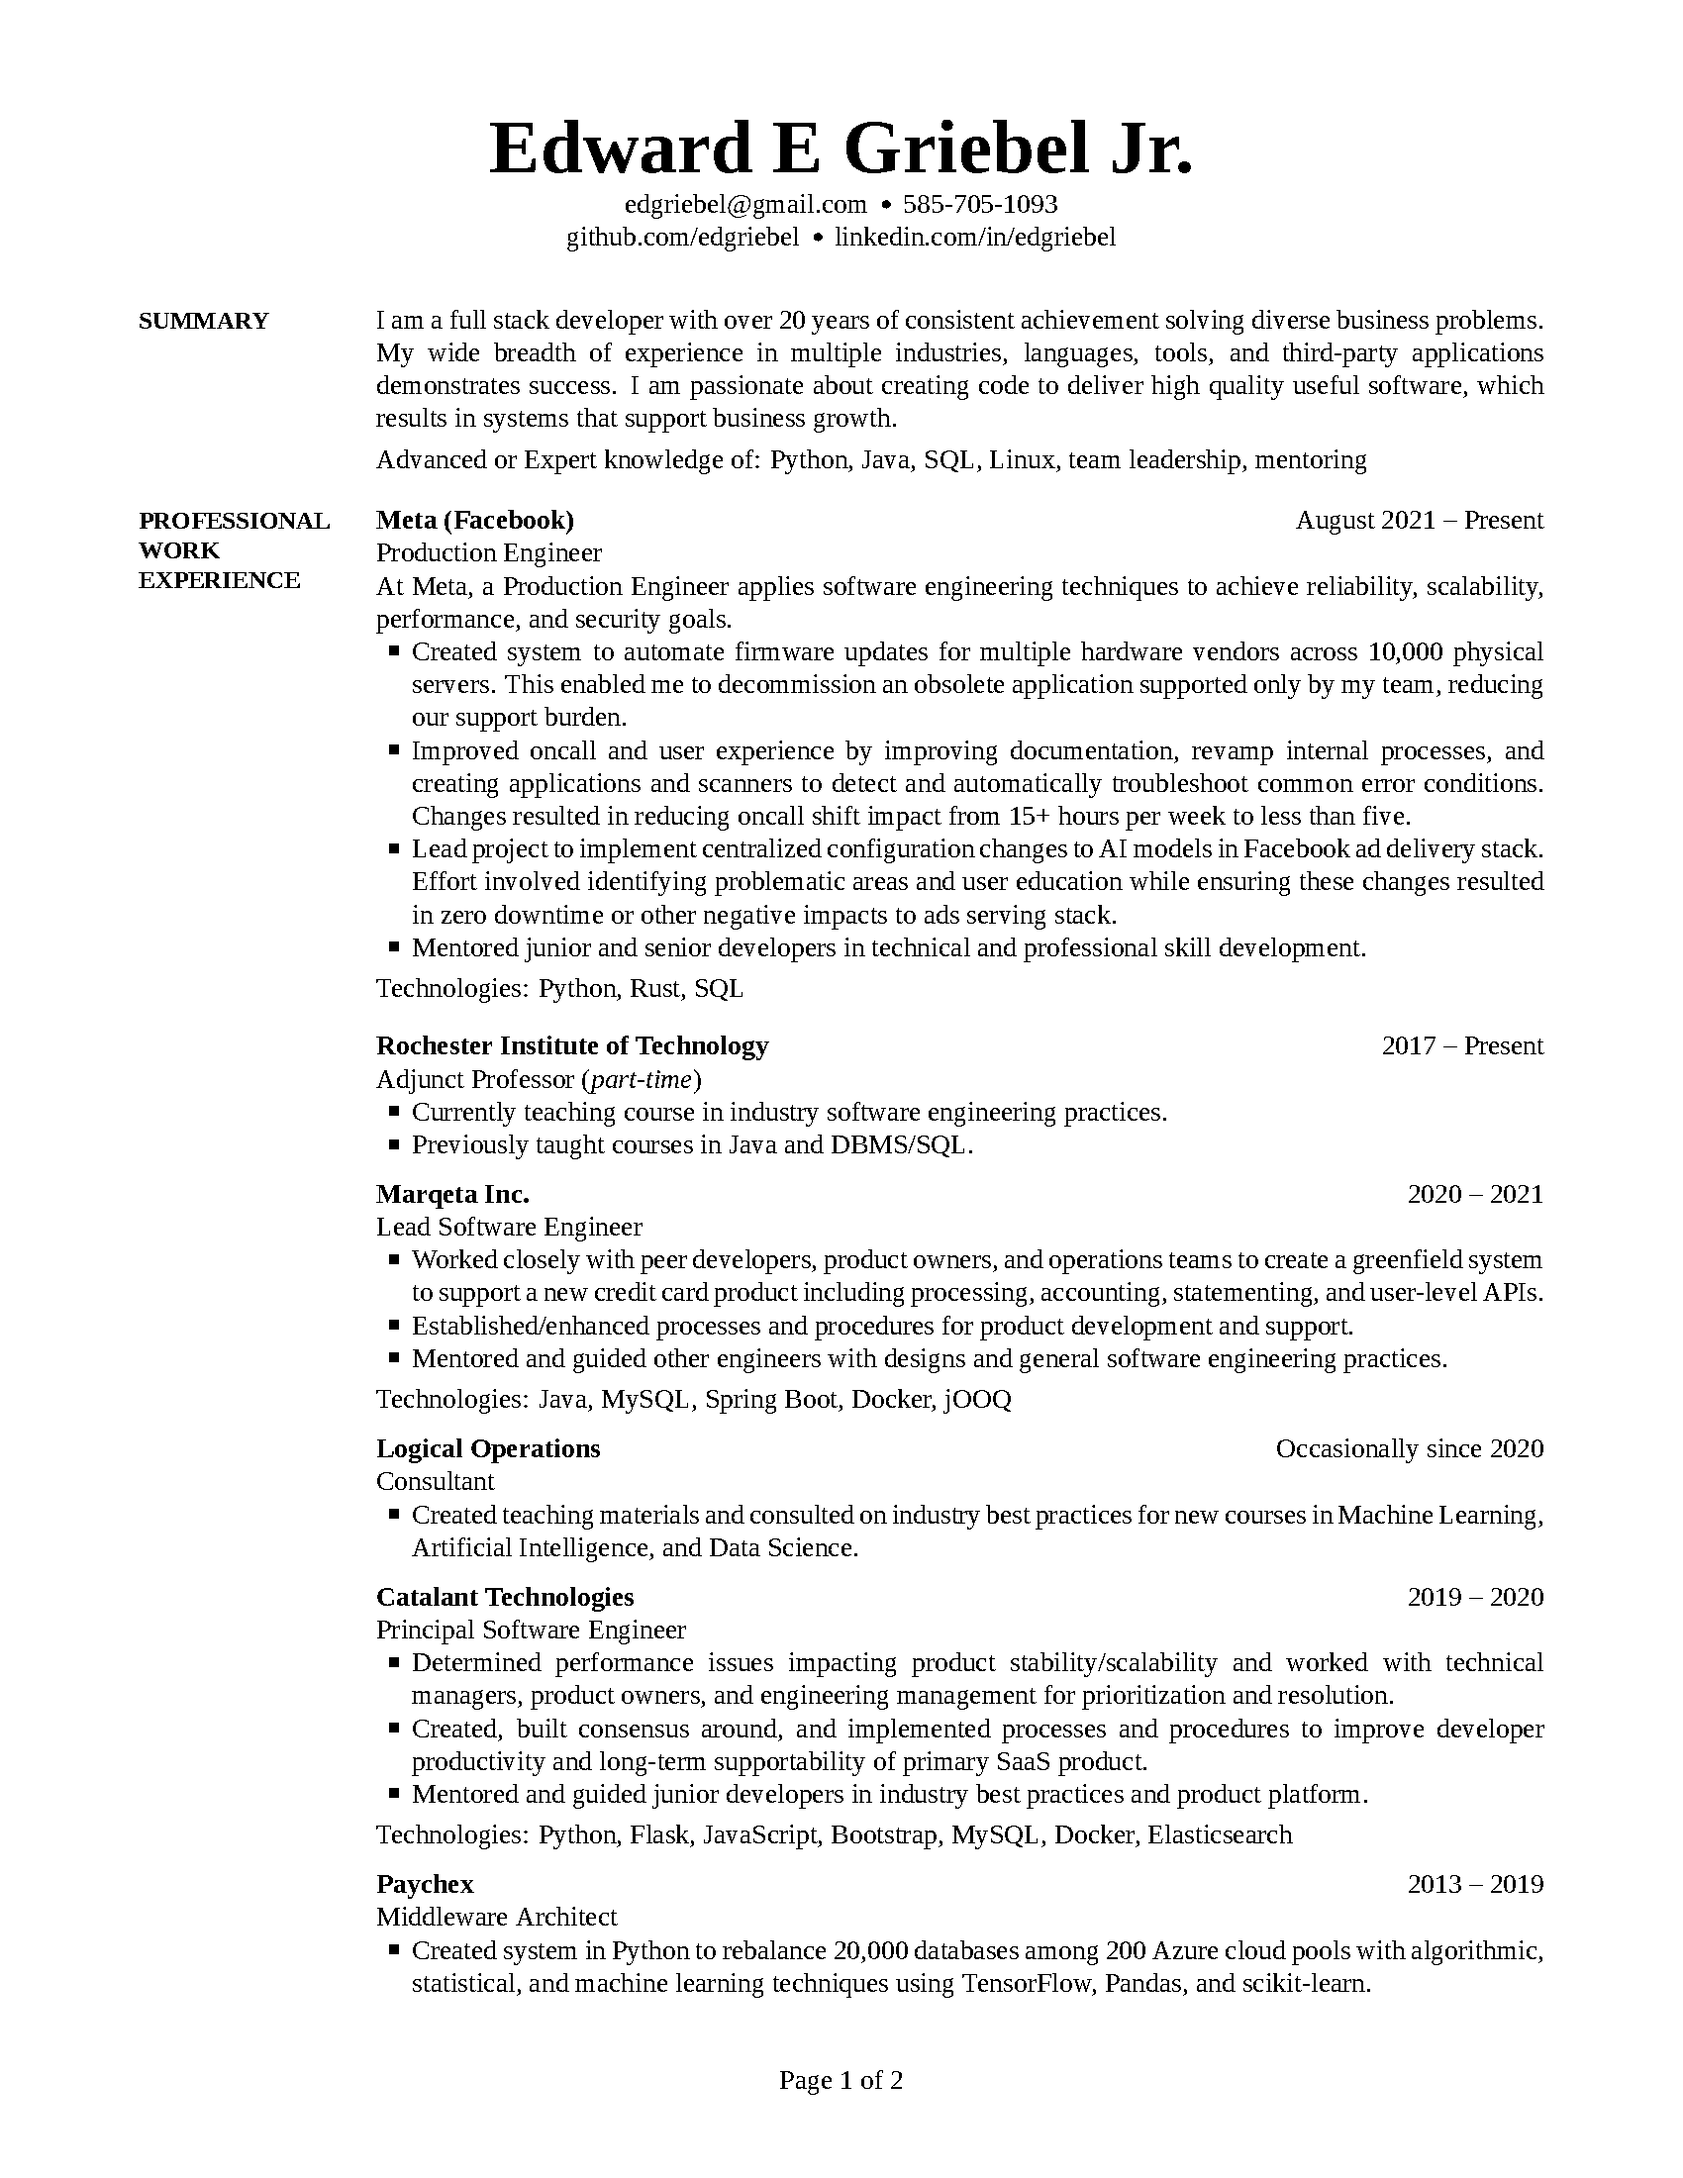
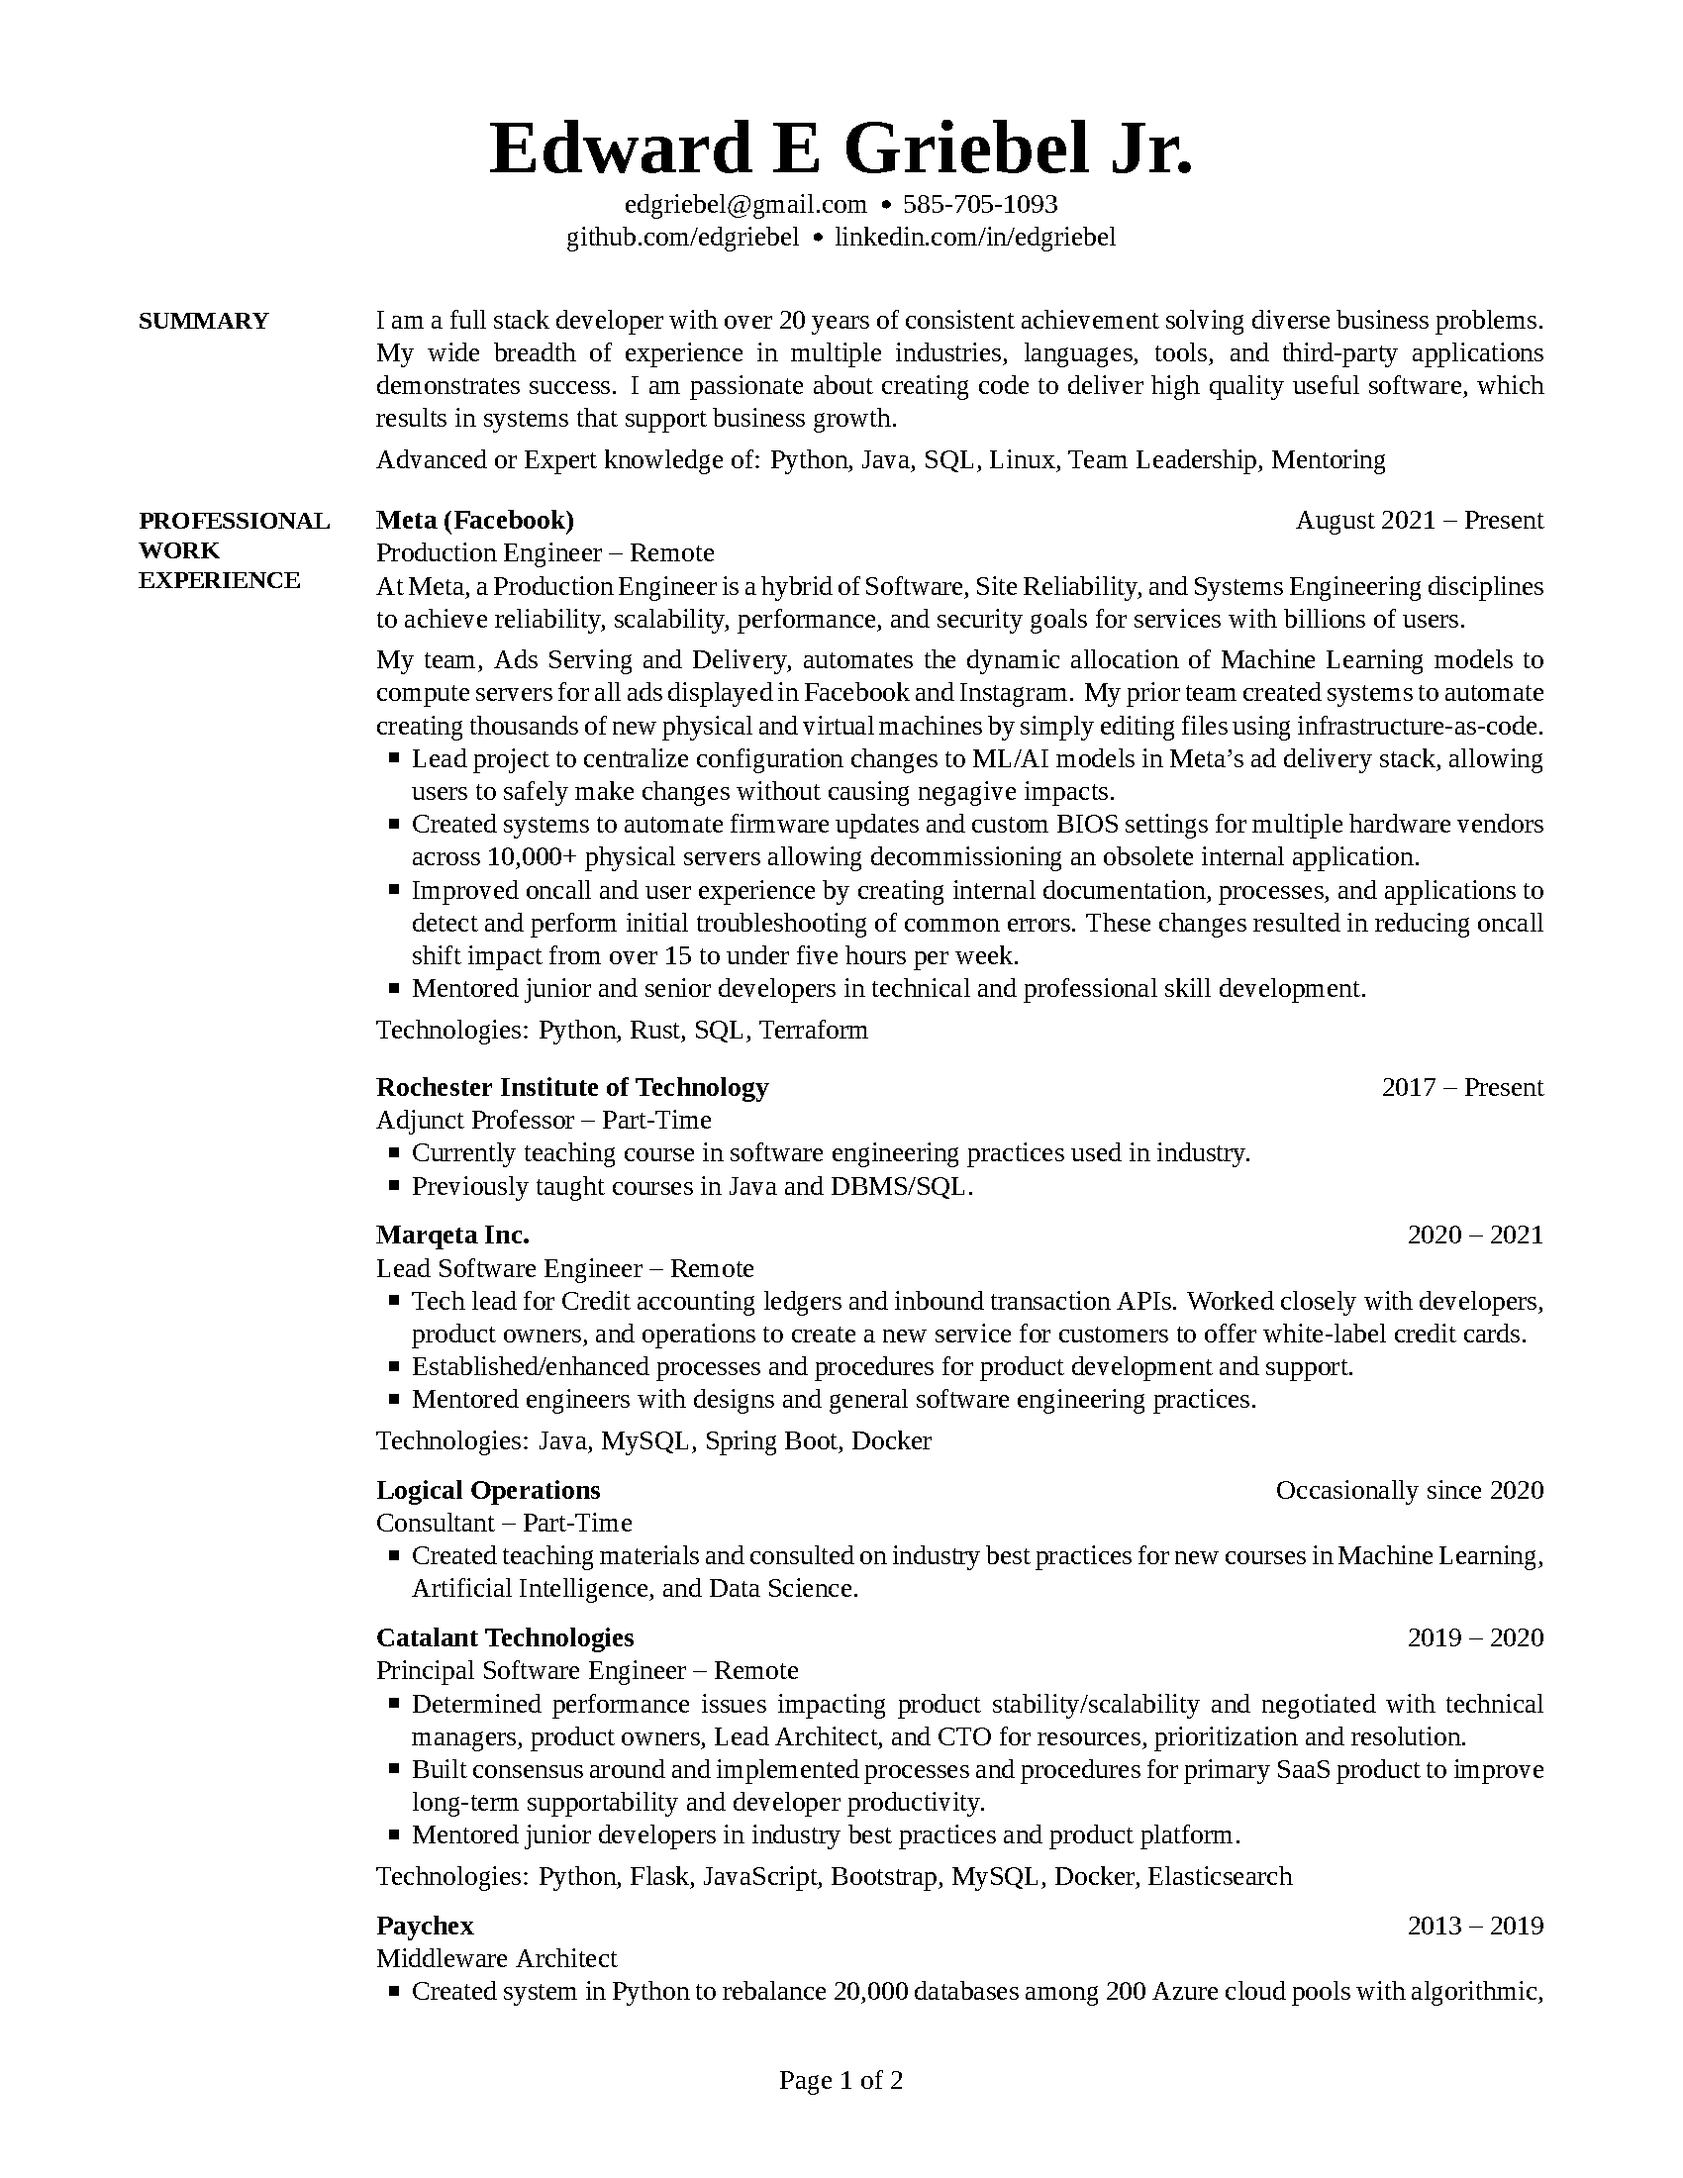
Tweak Meta exp, Mark jobs "Remote", tweak MQ exp, remove Bucknell detail

diff --git a/Ed_Griebel_CV.tex b/Ed_Griebel_CV.tex
@@ -25,7 +25,7 @@
 \newcommand{\CVAuthor}{Edward E Griebel Jr.}
 \newcommand{\CVTitle}{Ed Griebel CV}
 %%  \newcommand{\CVNote}{Resume written in \LaTeX, created on {\today}}
-\newcommand{\CVNote}{Resume created in \LaTeX, check it out at \href{https://github.com/edgriebel/resume-cv}{\underline{github.com/edgriebel}}\,!}
+\newcommand{\CVNote}{Resume created in \LaTeX, check it out at \href{https://github.com/edgriebel/resume-cv}{\underline{github.com/edgriebel}}}
 \newcommand{\CVWebpage}{https://www.edgriebel.com/}
 \newcommand{\CVWebpageDisp}{www.edgriebel.com}
 
@@ -110,7 +110,7 @@ Full Stack/Backend Java architect, developer, and consultant, specializing in Ja
 solutions and integrations.
 \fi
 \Gap
-Advanced or Expert knowledge of: Python, Java, SQL, Linux, team leadership, mentoring
+Advanced or Expert knowledge of: Python, Java, SQL, Linux, Team Leadership, Mentoring
 \iffalse
 \Gap
 \textit{Business Specialties}: Agile team leadership, customer-focused development, mentoring, requirements gathering and analysis, technical liaison, systems integration, business intelligence
@@ -134,29 +134,32 @@ Present
 
 %%\Gap
 %%\BulletItem
-Production Engineer 
-\ifLOCATION
-\hfill 
-Remote in Rochester, New York
-\fi
+Production Engineer -- Remote
 
 \begin{Detail}
 %% Production Engineering was created at Facebook to work with engineering teams and partners to champion the Reliability, Scalability, Performance, and Security posture of production services. PEs are hybrid software and systems engineers; they are the glue holding things together, whether that’s infrastructure and software or teams and processes.
 
-At Meta, a Production Engineer applies software engineering techniques to achieve reliability, scalability, performance, and security goals.
+At Meta, a Production Engineer is a hybrid of Software, Site Reliability, and Systems Engineering disciplines 
+to achieve reliability, scalability, performance, and security goals for services with billions of users.
+
+\Gap
+
+My team, Ads Serving and Delivery, automates the dynamic allocation of Machine Learning models to compute servers for all ads displayed in Facebook and Instagram.
+My prior team created systems to automate creating thousands of new physical and virtual machines by simply editing files using infrastructure-as-code.
+
 %% A key part of being a senior engineer is responsibility for determining scope, driving o
 
 \BulletItem
-Created system to automate firmware updates for multiple hardware vendors across 10,000 physical servers. 
-This enabled me to decommission an obsolete application supported only by my team, reducing our support burden.
+%% Lead project to implement centralized configuration changes to AI models in Facebook ad delivery stack. Effort involved identifying problematic areas and user education while ensuring these changes resulted in zero downtime or other negative impacts to ads serving stack.
+Lead project to centralize configuration changes to ML/AI models in Meta's ad delivery stack, allowing users to safely make changes without causing negagive impacts.
 
 \BulletItem
-Improved oncall and user experience by improving documentation, revamp internal processes, and creating applications and scanners to detect and automatically troubleshoot common error conditions.
+Created systems to automate firmware updates and custom BIOS settings for multiple hardware vendors across 10,000+ physical servers allowing decommissioning an obsolete internal application. 
+
+\BulletItem
+Improved oncall and user experience by creating internal documentation, processes, and applications to detect and perform initial troubleshooting of common errors.
+These changes resulted in reducing oncall shift impact from over 15 to under five hours per week.
 %% Necessary changes determined by analyzing common user questions, recurring support issues, and experience during outages. 
-Changes resulted in reducing oncall shift impact from 15+ hours per week to less than five.
-
-\BulletItem
-Lead project to implement centralized configuration changes to AI models in Facebook ad delivery stack. Effort involved identifying problematic areas and user education while ensuring these changes resulted in zero downtime or other negative impacts to ads serving stack.
 
 \BulletItem
 Mentored junior and senior developers in technical and professional skill development.
@@ -167,7 +170,7 @@ Mentored junior and senior developers in technical and professional skill develo
 %% Selected projects: adding reliability and performance metrics including reporting to existing services; automating firmware updates across multiple hardware vendors.
 
 \Gap
-Technologies: Python, Rust, SQL
+Technologies: Python, Rust, SQL, Terraform
 
 \Gap
 
@@ -185,7 +188,7 @@ Present
 
 %%\Gap
 %%\BulletItem
-Adjunct Professor (\textit{part-time})
+Adjunct Professor -- Part-Time
 \ifLOCATION
 \hfill 
 Rochester, New York
@@ -193,7 +196,7 @@ Rochester, New York
 
 \begin{Detail}
 \BulletItem
-Currently teaching course in industry software engineering practices.
+Currently teaching course in software engineering practices used in industry.
 \BulletItem
 Previously taught courses in Java and DBMS/SQL.
 \end{Detail}
@@ -206,7 +209,7 @@ Previously taught courses in Java and DBMS/SQL.
 %% \DatestampYM{2020}{05} -- \DatestampYM{2021}{07}
 \DatestampY{2020} -- \DatestampY{2021}
 
-Lead Software Engineer
+Lead Software Engineer -- Remote
 \ifLOCATION
 \hfill
 Rochester, New York
@@ -214,14 +217,15 @@ Rochester, New York
 
 \begin{Detail}
 \BulletItem
-Worked closely with peer developers, product owners, and operations teams to create a greenfield system to support a new credit card product including processing, accounting, statementing, and user-level APIs.
+Tech lead for Credit accounting ledgers and inbound transaction APIs.
+Worked closely with developers, product owners, and operations to create a new service for customers to offer white-label credit cards. 
 \BulletItem
 Established/enhanced processes and procedures for product development and support.
 \BulletItem
-Mentored and guided other engineers with designs and general software engineering practices.
+Mentored engineers with designs and general software engineering practices.
 
 \Gap
-Technologies: Java, MySQL, Spring Boot, Docker, jOOQ
+Technologies: Java, MySQL, Spring Boot, Docker
 
 \end{Detail}
 
@@ -235,7 +239,7 @@ Occasionally since \DatestampY{2020}
 
 %%\Gap
 %%\BulletItem
-Consultant
+Consultant -- Part-Time
 \ifLOCATION
 \hfill 
 Rochester, New York
@@ -255,7 +259,7 @@ Created teaching materials and consulted on industry best practices for new cour
 %% \DatestampYM{2019}{06} -- \DatestampYM{2020}{03}
 \DatestampY{2019} -- \DatestampY{2020}
 
-Principal Software Engineer
+Principal Software Engineer -- Remote
 \ifLOCATION
 \hfill
 Rochester, New York
@@ -263,11 +267,11 @@ Rochester, New York
 
 \begin{Detail}
 \BulletItem
-Determined performance issues impacting product stability/scalability and worked with technical managers, product owners, and engineering management for prioritization and resolution.
+Determined performance issues impacting product stability/scalability and negotiated with technical managers, product owners, Lead Architect, and CTO for resources, prioritization and resolution.
 \BulletItem
-Created, built consensus around, and implemented processes and procedures to improve developer productivity and long-term supportability of primary SaaS product. 
+Built consensus around and implemented processes and procedures for primary SaaS product to improve long-term supportability and developer productivity.
 \BulletItem
-Mentored and guided junior developers in industry best practices and product platform.
+Mentored junior developers in industry best practices and product platform.
 
 \Gap
 Technologies: Python, Flask, JavaScript, Bootstrap, MySQL, Docker, Elasticsearch
@@ -354,7 +358,7 @@ Technologies: Java, JavaScript, JQuery-UI, Oracle PL/SQL, Scikit-Learn, TensorFl
 
 %%\Gap
 %%\BulletItem
-Senior Software Engineer
+Senior Software Engineer -- Remote
 \ifLOCATION
 \hfill
 Rochester, New York
@@ -618,12 +622,13 @@ M.S. in Computer Science
 
 %%\Gap
 %%\BulletItem
-B.S. in Computer Engineering
+B.S. in Computer Science and Engineering
 \iffalse
 \hfill
 \DatestampYM{1988}{09} --
 \DatestampYM{1992}{06}
 \fi
+\iffalse
 \begin{Detail}
 \BulletItem
 Senior design project creating reference implementation of DHCP protocol for RFCs 1531 and 1534
@@ -634,6 +639,7 @@ Concentrations in Digital Electronics and Geology
 
 %% Technologies: Computer Science, C, VAX assembly, DHCP, TCP-IP, Digital Electronics
 \end{Detail}
+\fi
 
 %%%%%%%%%%%%
 %% CERTIFICATIONS %%
